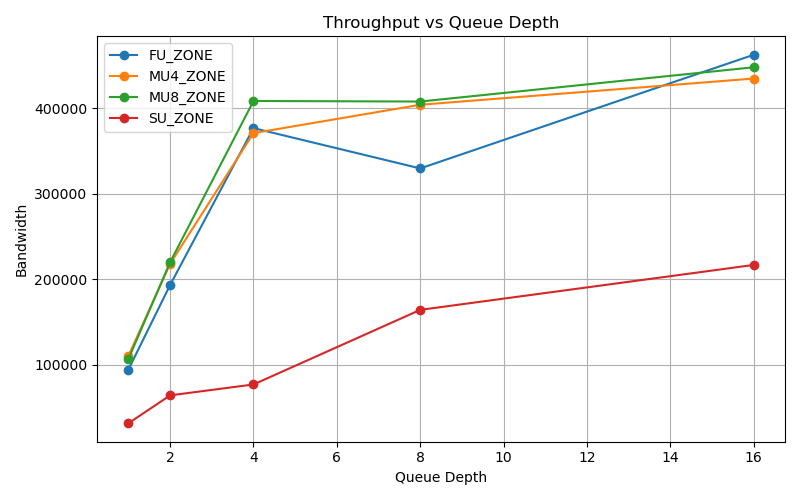
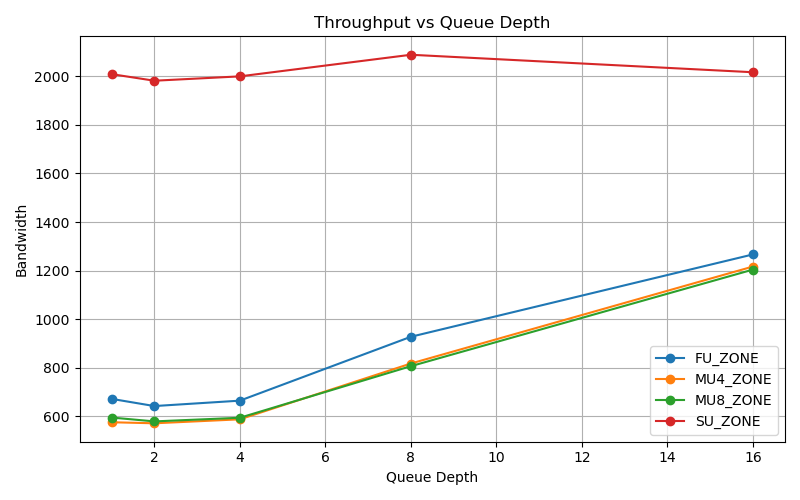
mean write latency graphs

diff --git a/scripts/graph_write_latency.py b/scripts/graph_write_latency.py
@@ -1,0 +1,49 @@
+import os
+import json
+import matplotlib.pyplot as plt
+
+BASE_DIR = "../results/csv"
+CONCURRENCY_LEVELS = [1, 2, 4, 8, 16]
+
+GEOMETRIES = ["FU_ZONE", "MU4_ZONE", "MU8_ZONE", "SU_ZONE"]
+MODES = ["inter", "intra"]
+
+def get_iops_from_file(filepath):
+    with open(filepath) as f:
+        data = json.load(f)
+        return (data["jobs"][0]["write"]["lat_ns"]["mean"] / 1000)
+
+def collect_data(mode):
+    results = {}
+    for geometry in GEOMETRIES:
+        dir_name = f"{geometry}-{mode}"
+        full_path = os.path.join(BASE_DIR, dir_name)
+        y_values = []
+        for level in CONCURRENCY_LEVELS:
+            match_prefix = f"{mode}_{level}-"
+            filename = next((f for f in os.listdir(full_path) if f.startswith(match_prefix)), None)
+            if filename:
+                filepath = os.path.join(full_path, filename)
+                y_values.append(get_iops_from_file(filepath))
+            else:
+                y_values.append(0)
+        results[geometry] = y_values
+    return results
+
+def plot_data(results, mode):
+    plt.figure(figsize=(8, 5))
+    for geometry, y_values in results.items():
+        plt.plot(CONCURRENCY_LEVELS, y_values, marker='o', label=geometry)
+    plt.xlabel("Num Jobs")
+    plt.ylabel("Mean Write Latency (μs)")
+    plt.title(f"Write Latency vs Num Jobs")
+    plt.legend()
+    plt.grid(True)
+    plt.tight_layout()
+    plt.savefig(f"write-latency_{mode}.png")
+    plt.show()
+
+if __name__ == "__main__":
+    for mode in MODES:
+        data = collect_data(mode)
+        plot_data(data, mode)
